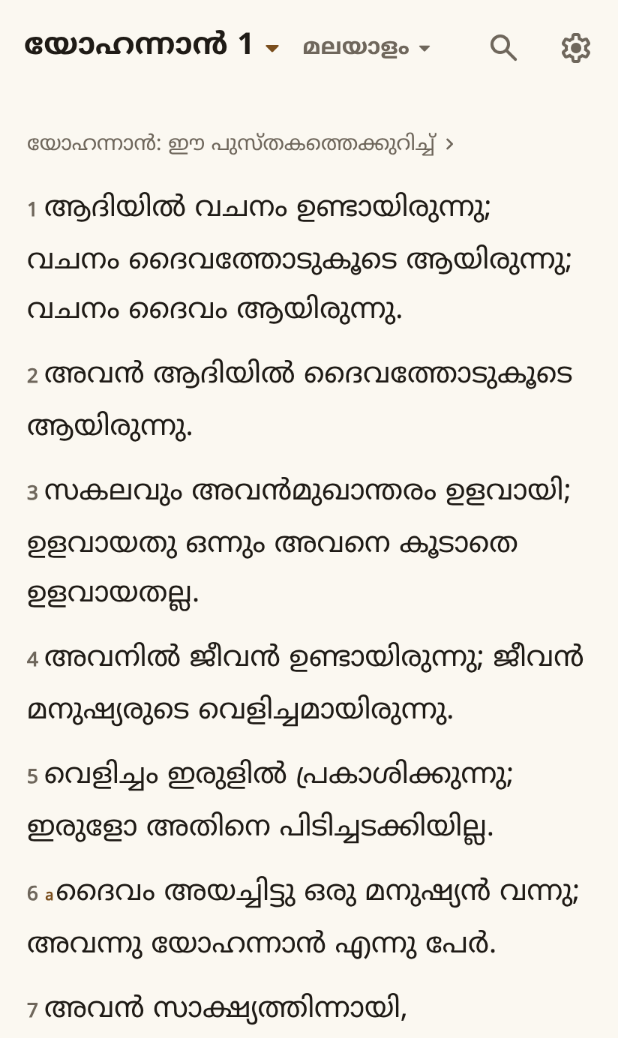
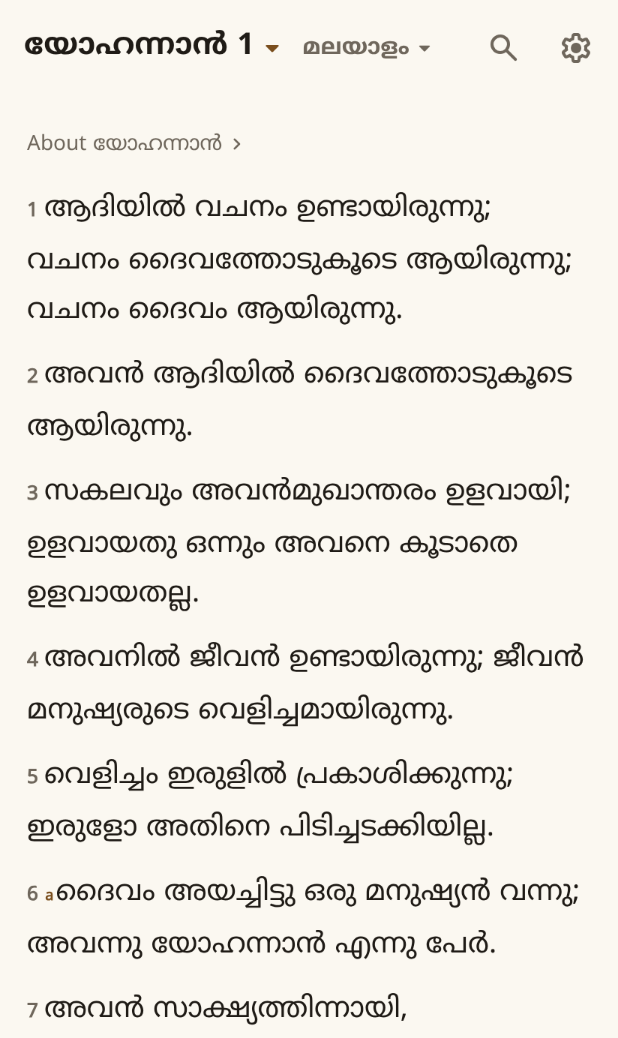
English is the default interface language in every app
The Malayalam and Tamil apps opened in their own language; a fresh install now opens in
English, with the other language in Settings. The Bible opened first is unchanged. A
reader who already has the app keeps the language saved on their phone. The four-language
app shows English until its reader has chosen. The welcome pictures are cut again, with
the English interface.

Claude-Session: https://claude.ai/code/session_01Kt8QQgS1XLBE3LTVGzDsDj

Changed region(s): [[0.0307, 0.1233, 0.7071, 0.1541]]

diff --git a/src/edition.ts b/src/edition.ts
@@ -11,14 +11,14 @@ export interface Edition {
   /** Translations bundled in this edition's database, in display order. */
   translations: TranslationId[];
   defaultTranslation: TranslationId;
-  /** Interface languages offered; the first is the default. */
+  /** Interface languages offered; the first, English in every app, is the default. */
   languages: Language[];
 }
 
 export const EDITIONS: Record<EditionId, Edition> = {
   en: { id: 'en', translations: ['KJV', 'BSB', 'WEB'], defaultTranslation: 'KJV', languages: ['en'] },
-  ml: { id: 'ml', translations: ['MAL', 'KJV', 'BSB'], defaultTranslation: 'MAL', languages: ['ml', 'en'] },
-  ta: { id: 'ta', translations: ['TAM', 'KJV', 'BSB'], defaultTranslation: 'TAM', languages: ['ta', 'en'] },
+  ml: { id: 'ml', translations: ['MAL', 'KJV', 'BSB'], defaultTranslation: 'MAL', languages: ['en', 'ml'] },
+  ta: { id: 'ta', translations: ['TAM', 'KJV', 'BSB'], defaultTranslation: 'TAM', languages: ['en', 'ta'] },
   // The four-language app: every Bible the others carry, and the Hindi. Its interface is
   // English, Malayalam, Tamil or Hindi; the first opening asks which.
   all: { id: 'all', translations: ['KJV', 'BSB', 'WEB', 'MAL', 'TAM', 'HIN'], defaultTranslation: 'KJV', languages: ['en', 'ml', 'ta', 'hi'] },

diff --git a/App.tsx b/App.tsx
@@ -16,7 +16,7 @@ import type { RootStackParamList } from './src/navigation';
 import { translate, useT } from './src/i18n';
 import type { StringKey } from './src/i18n';
 import { CONFIGURED_EDITION, EDITIONS, EditionContext, isEditionId, isMultilingual, useEdition } from './src/edition';
-import { LanguageScreen, phoneLanguage } from './src/screens/LanguageScreen';
+import { LanguageScreen } from './src/screens/LanguageScreen';
 import { WelcomeScreen } from './src/screens/WelcomeScreen';
 import { clearShared } from './src/notebookFiles';
 
@@ -58,10 +58,8 @@ export default function App() {
   );
 }
 
-// The four-language app speaks the phone's language before the reader has chosen one.
-const STARTUP_LANGUAGE: Language = isMultilingual(CONFIGURED_EDITION)
-  ? (CONFIGURED_EDITION.languages.find((l) => l === phoneLanguage()) ?? CONFIGURED_EDITION.languages[0])
-  : CONFIGURED_EDITION.languages[0];
+// Before the reader's settings are read, every app speaks its default language, English.
+const STARTUP_LANGUAGE: Language = CONFIGURED_EDITION.languages[0];
 /** The free space to ask for, in MB, rounded up to tens. */
 const SPACE_MB = Math.ceil(firstCopySpace() / (1024 * 1024) / 10) * 10;
 
